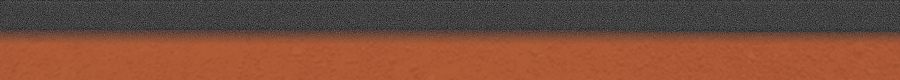
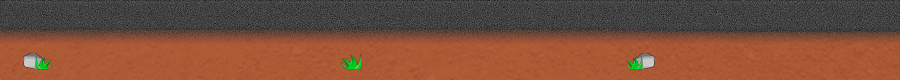
Funcionalidad Terminada y Assets Actualizados

Changed region(s): [[0.6844, 0.675, 0.7467, 0.875], [0.0, 0.65, 0.0622, 0.875], [0.3733, 0.675, 0.4044, 0.875]]

diff --git a/script/script.js b/script/script.js
@@ -1,33 +1,98 @@
-const submitNick = ()=>{
-    const userName = document.getElementById("text");
-    const name = userName.value;
-    if (name != '') {
-        console.log(userName.value)
-        let user = document.getElementById("user");
-        user.textContent = name;
-    
-        fadeOut();
-    }else{
-        const nickError = document.getElementById("nickError");
-        nickError.style.visibility = 'visible';
-        nickError.style.animation = 'fadeOut 3s';
-        nickError.addEventListener("animationend", () =>{
-            nickError.style.visibility = 'hidden';
-        })
+let gameStart = false;
+let points = 0;
+let obstacle = document.getElementById("obstacle");
+let player = document.getElementById("vocho");
+
+const submitNick = () => {
+  const userName = document.getElementById("text");
+  const name = userName.value;
+  if (name !== "") {
+    let user = document.getElementById("user");
+    user.textContent = name;
+
+    fadeOut();
+  } else {
+    const nickError = document.getElementById("nickError");
+    nickError.style.visibility = "visible";
+    nickError.style.animation = "fadeOut 3s";
+    nickError.addEventListener("animationend", () => {
+      nickError.style.visibility = "hidden";
+    });
+  }
+};
+
+const fadeOut = () => {
+  const intro = document.getElementById("intro");
+  intro.style.animation = "fadeOut 1.2s";
+  intro.addEventListener("animationend", () => {
+    intro.remove();
+  });
+};
+
+const playerAnimation = () => {
+  player.style.animation = "spriteAnimation 0.25s steps(1) infinite";
+};
+
+const groundAnimation = () => {
+  const ground = document.getElementById("ground");
+  ground.style.animation = "groundAnimation 2s linear infinite";
+};
+
+const obstacleAnimation = () => {
+  obstacle.style.animation = "obstacleAnimation 1.4s linear";
+  obstacle.addEventListener("animationend", function(event) {
+    obstacle.style.animation = "none";
+  });
+};
+
+const playerJump = () => {
+  player.style.animation = "jumpAnimation 0.65s";
+  player.addEventListener("animationend", () => {
+    playerAnimation();
+  });
+};
+
+const playerScore = () => {
+  let score = document.getElementById("score");
+  points++;
+  score.textContent = points;
+};
+
+const gameLoop = () => {
+    if (playerCollision()) {
+      alert("¡Colisión detectada!");
     }
-}
+    requestAnimationFrame(gameLoop);
+  };
 
-const fadeOut = ()=> {
-    const intro = document.getElementById("intro");
-    intro.style.animation = 'fadeOut 1.2s';
-    intro.addEventListener("animationend", () =>{
-        intro.remove();
-    })
-}
+const playerCollision = () => {
+const playerRect = player.getBoundingClientRect();
+const obstacleRect = obstacle.getBoundingClientRect();
 
+return (
+    playerRect.x < obstacleRect.x + obstacleRect.width &&
+    playerRect.x + playerRect.width > obstacleRect.x &&
+    playerRect.y < obstacleRect.y + obstacleRect.height &&
+    playerRect.y + playerRect.height > obstacleRect.y
+);
+};
 
-const playerAnimation = () =>{
-    const player = document.getElementById("vocho");
-    player.style.animation = 'spriteAnimation 0.25s steps(1) infinite';
-    console.log(player.style.animation);
-}
+document.addEventListener("keydown", function(event) {
+  if (event.code === "Space") {
+    if (!gameStart) {
+      groundAnimation();
+      playerAnimation();
+      obstacleAnimation();
+      setInterval(() => {
+        playerScore();
+      }, 250);
+      gameStart = true;
+      requestAnimationFrame(gameLoop);
+    } else {
+      setInterval(() => {
+        obstacleAnimation();
+      }, Math.floor(Math.random() * (5000 - 2000 + 1)) + 2000);
+      playerJump();
+    }
+  }
+});

diff --git a/style/style.css b/style/style.css
@@ -36,6 +36,10 @@ h3 {
   color: #F7f7f7;
 }
 
+strong {
+  color: yellow;
+}
+
 main {
   width: 100%;
   position: fixed;
@@ -44,7 +48,7 @@ main {
 
 #generalContainer {
   width: 70%;
-  margin: 12% auto 0 auto;
+  margin: 4% auto 0 auto;
   height: 350px;
 }
 
@@ -55,6 +59,7 @@ main {
   font-size: 30px;
   font-weight: bold;
   color: #F7f7f7;
+  margin-bottom: 10%;
 }
 
 #intro {
@@ -102,6 +107,7 @@ main {
   position: relative;
   background: linear-gradient(#65C1EC, #EC8E63 60%);
   height: 100%;
+  overflow: hidden;
 }
 
 #ground {
@@ -117,12 +123,23 @@ main {
   position: relative;
   width: 240px;
   height: 170px;
-  top: -20%;
+  top: -17%;
   background-image: url(/resources/vocho2.png);
   background-repeat: no-repeat;
-  /* background-position: -240px 0; */
   z-index: 2;
-  transform: scale(0.9);
+  transform: scale(0.7);
+}
+
+#obstacle {
+  position: absolute;
+  background-repeat: no-repeat;
+  background-image: url(/resources/obstacle.png);
+  top: -20px;
+  left: 90%;
+  width: 390px;
+  height: 438px;
+  z-index: 3;
+  transform: scale(0.2);
 }
 
 @keyframes spriteAnimation {
@@ -131,7 +148,7 @@ main {
   }
   25% {
     background-position: -240px 0;
-    top: calc(-20% - 2.5px);
+    top: calc(-17% - 2.5px);
   }
   50% {
     background-position: -480px 0;
@@ -141,5 +158,33 @@ main {
   }
   100% {
     background-position: -960px 0;
+  }
+}
+@keyframes groundAnimation {
+  0% {
+    background-position: 0 0;
+  }
+  100% {
+    background-position: -1580px 0;
+  }
+}
+@keyframes obstacleAnimation {
+  0% {
+    left: 90%;
+  }
+  100% {
+    left: -15%;
+  }
+}
+@keyframes jumpAnimation {
+  0% {
+    top: -20%;
+  }
+  50% {
+    top: -60%;
+    scale: 0.58;
+  }
+  100% {
+    top: -20%;
   }
 }/*# sourceMappingURL=style.css.map */

diff --git a/index.html b/index.html
@@ -21,7 +21,7 @@
                     <h3 id="user">User</h3>
                 </il>
                 <il>
-                    <h3 id="score">0</h3>
+                    <h3>Score:</h3><h3 id="score">0</h3>
                 </il>
             </ul>
         </nav>
@@ -35,9 +35,9 @@
     <main>
         <div id="generalContainer">
             <p>
-                Press the 'Spacebar' to start the game, and Jump.<br>
-                Avoid the road obstacles.<br>
-                Enjoy! and don't forget to visit the repository on GitHub.<br>
+                Press the <strong>'Spacebar'</strong> to start the game, and Jump.<br>
+                Avoid the road <strong>obstacles.</strong><br>
+            <strong>Enjoy!</strong> and don't forget to visit the repository on <a href="https://github.com/AntonioG-G/VochoGame" target="_blank"> GitHub.</a><br>
             </p>
             
             <div id="gameContainer">
@@ -48,10 +48,9 @@
         
                 </div>
                 <div id="obstacle">
-                    obstaculo                   
+                    
                 </div>
             </div>
-            <button onclick="playerAnimation()">jugar</button>
         </div>
     </main>
     <script src="script/script.js"></script>
